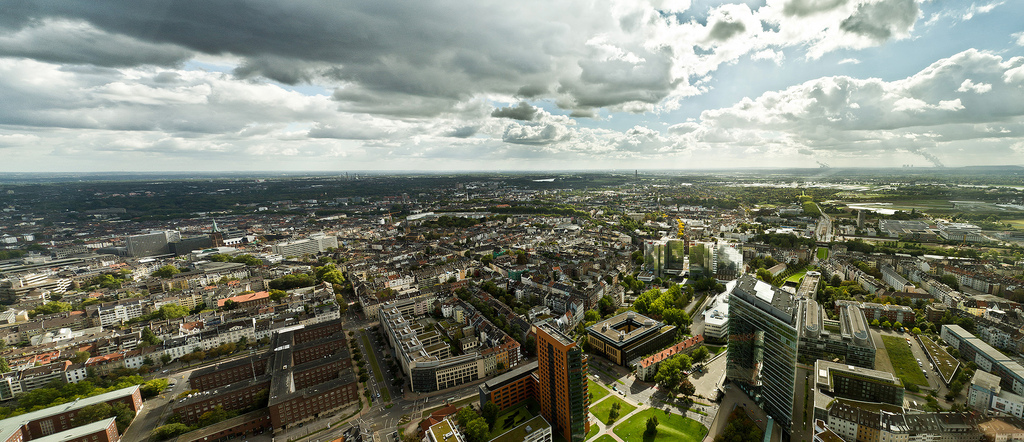
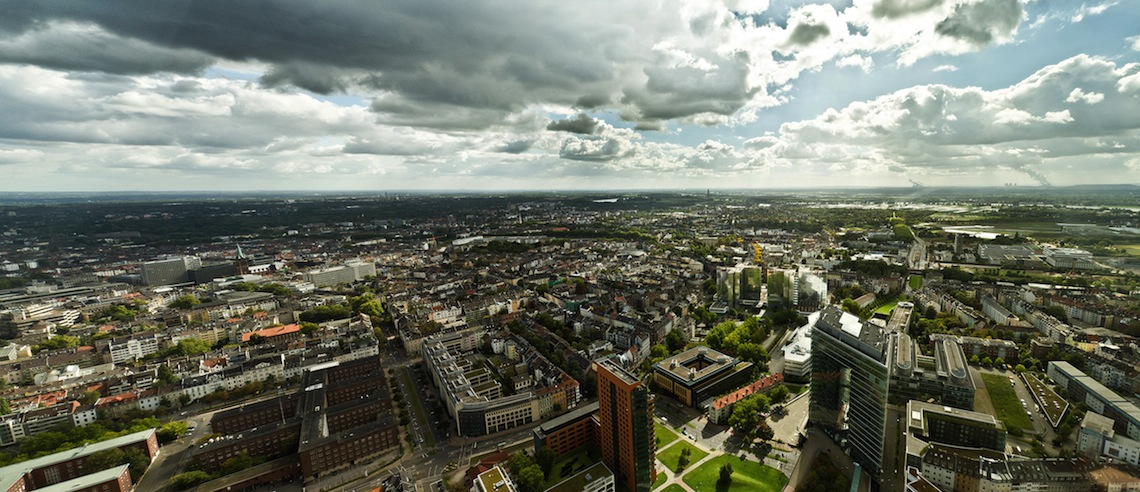
Update jurisdictions panoramas where possible
Increase width to 1140px

diff --git a/fragdenstaat_de/templates/help/de/about.html b/fragdenstaat_de/templates/help/de/about.html
@@ -174,6 +174,11 @@ Telefon: +49 30 57703666 2<br/>
         unter <a href="http://creativecommons.org/licenses/by-nc/2.0/deed.en">CC-BY-NC 2.0</a>
     </li>
     <li>
+        <a href="https://secure.flickr.com/photos/mplabs/3285623625/">Erfurt</a>
+        von <a href="https://secure.flickr.com/photos/mplabs/">Felix</a>
+        unter <a href="http://creativecommons.org/licenses/by-nc-sa/2.0/deed.en">CC-BY-NC-SA 2.0</a>
+    </li>
+    <li>
         <a href="http://commons.wikimedia.org/wiki/File:Schloss_Babelsberg.jpg">Schloss Babelsberg</a>
         von <a href="http://de.wikipedia.org/wiki/User:Times">Wikipedia User "Times"</a>
         unter <a href="http://creativecommons.org/licenses/by-sa/3.0/deed.en">CC-BY-SA 3.0 Unported</a>
